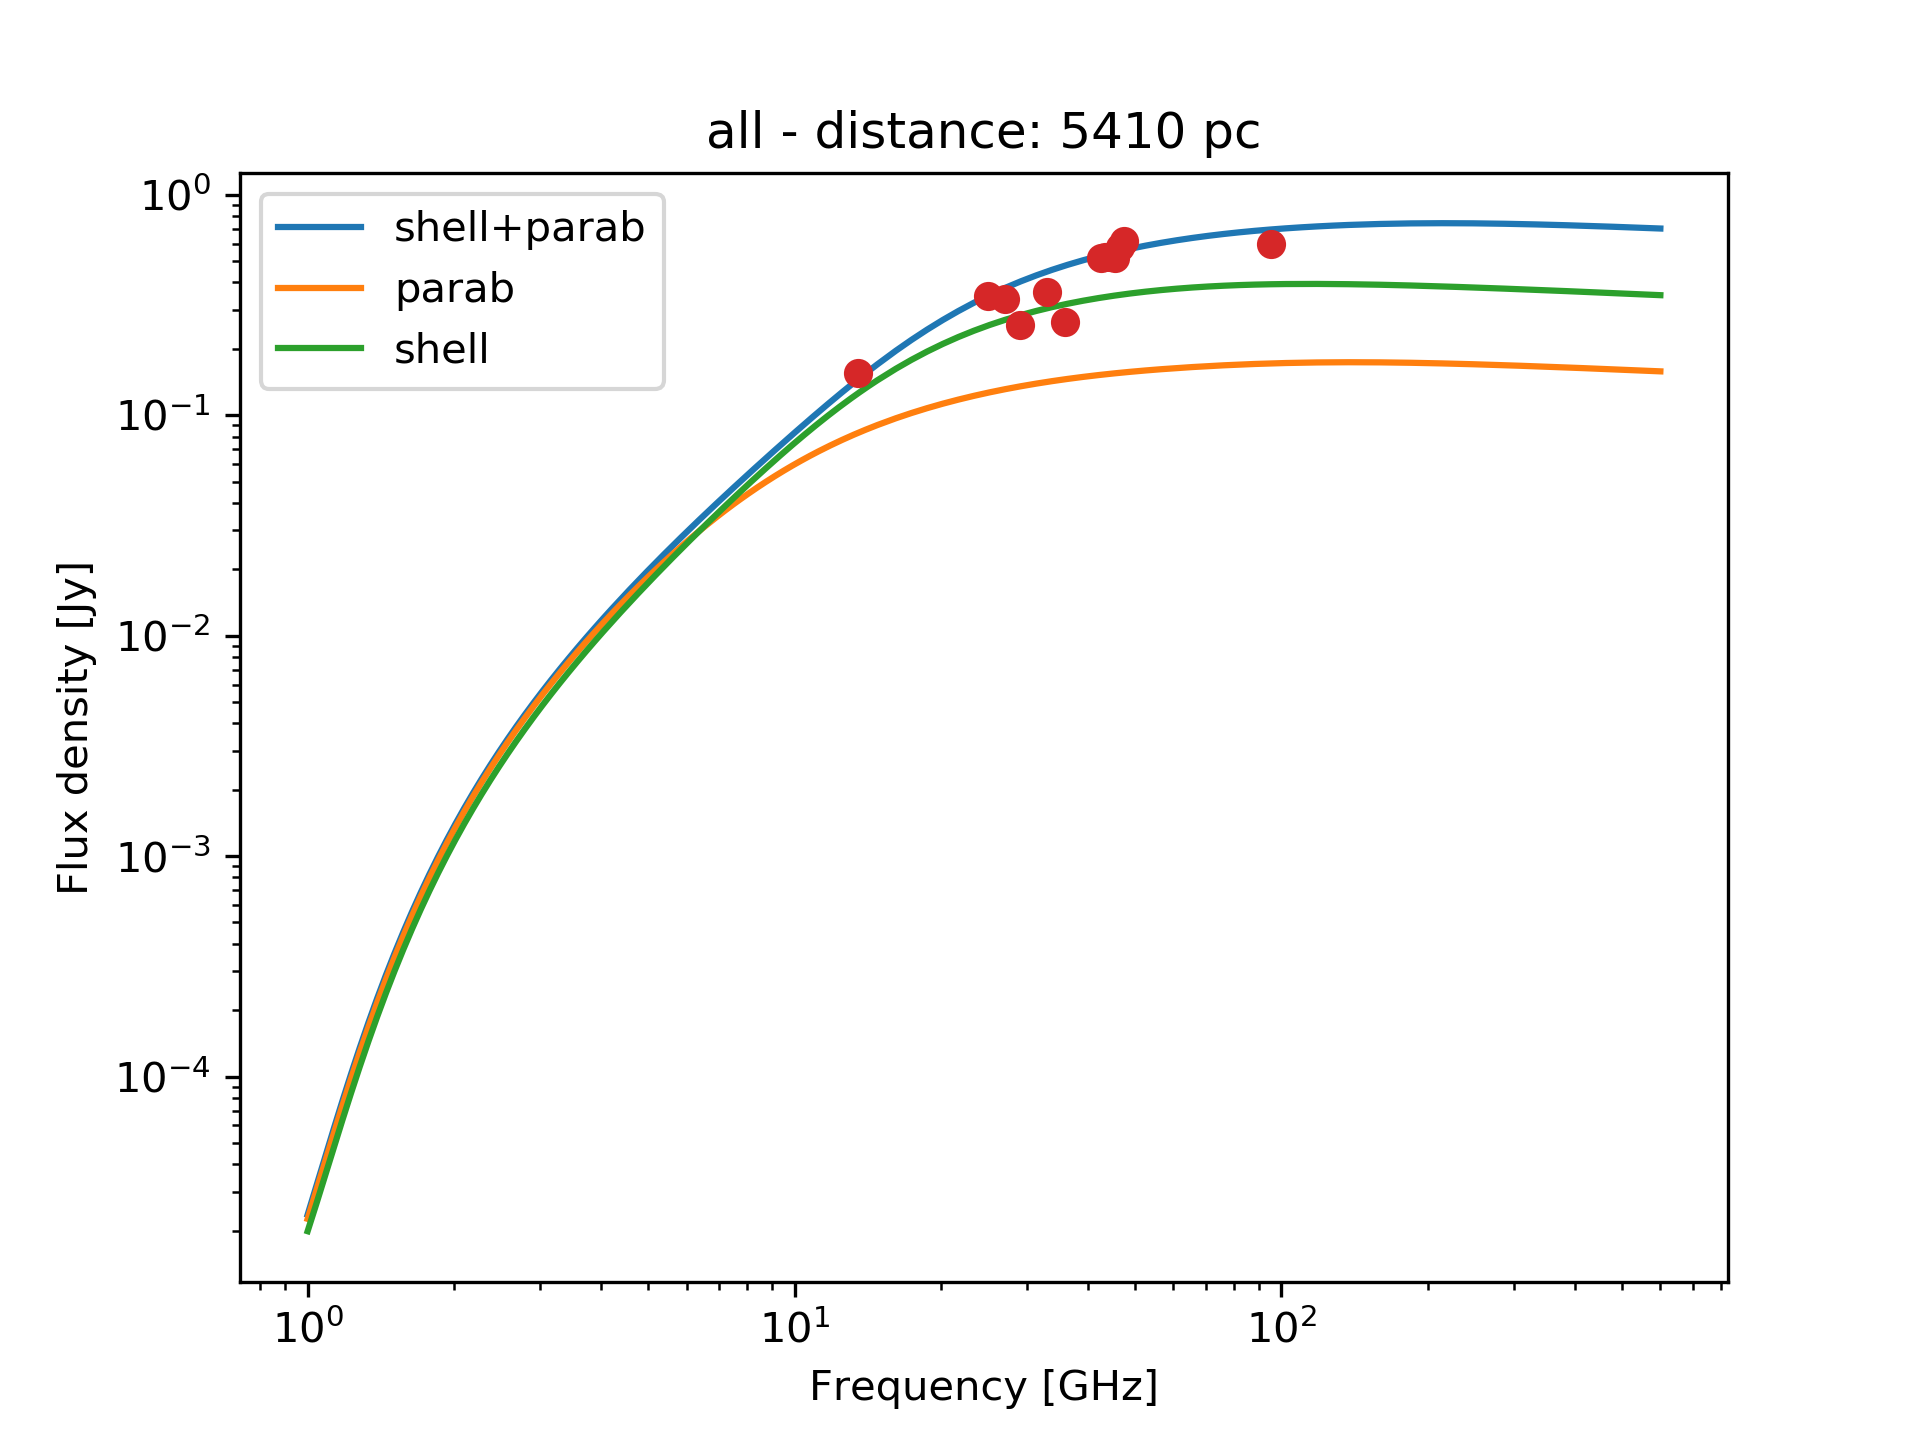
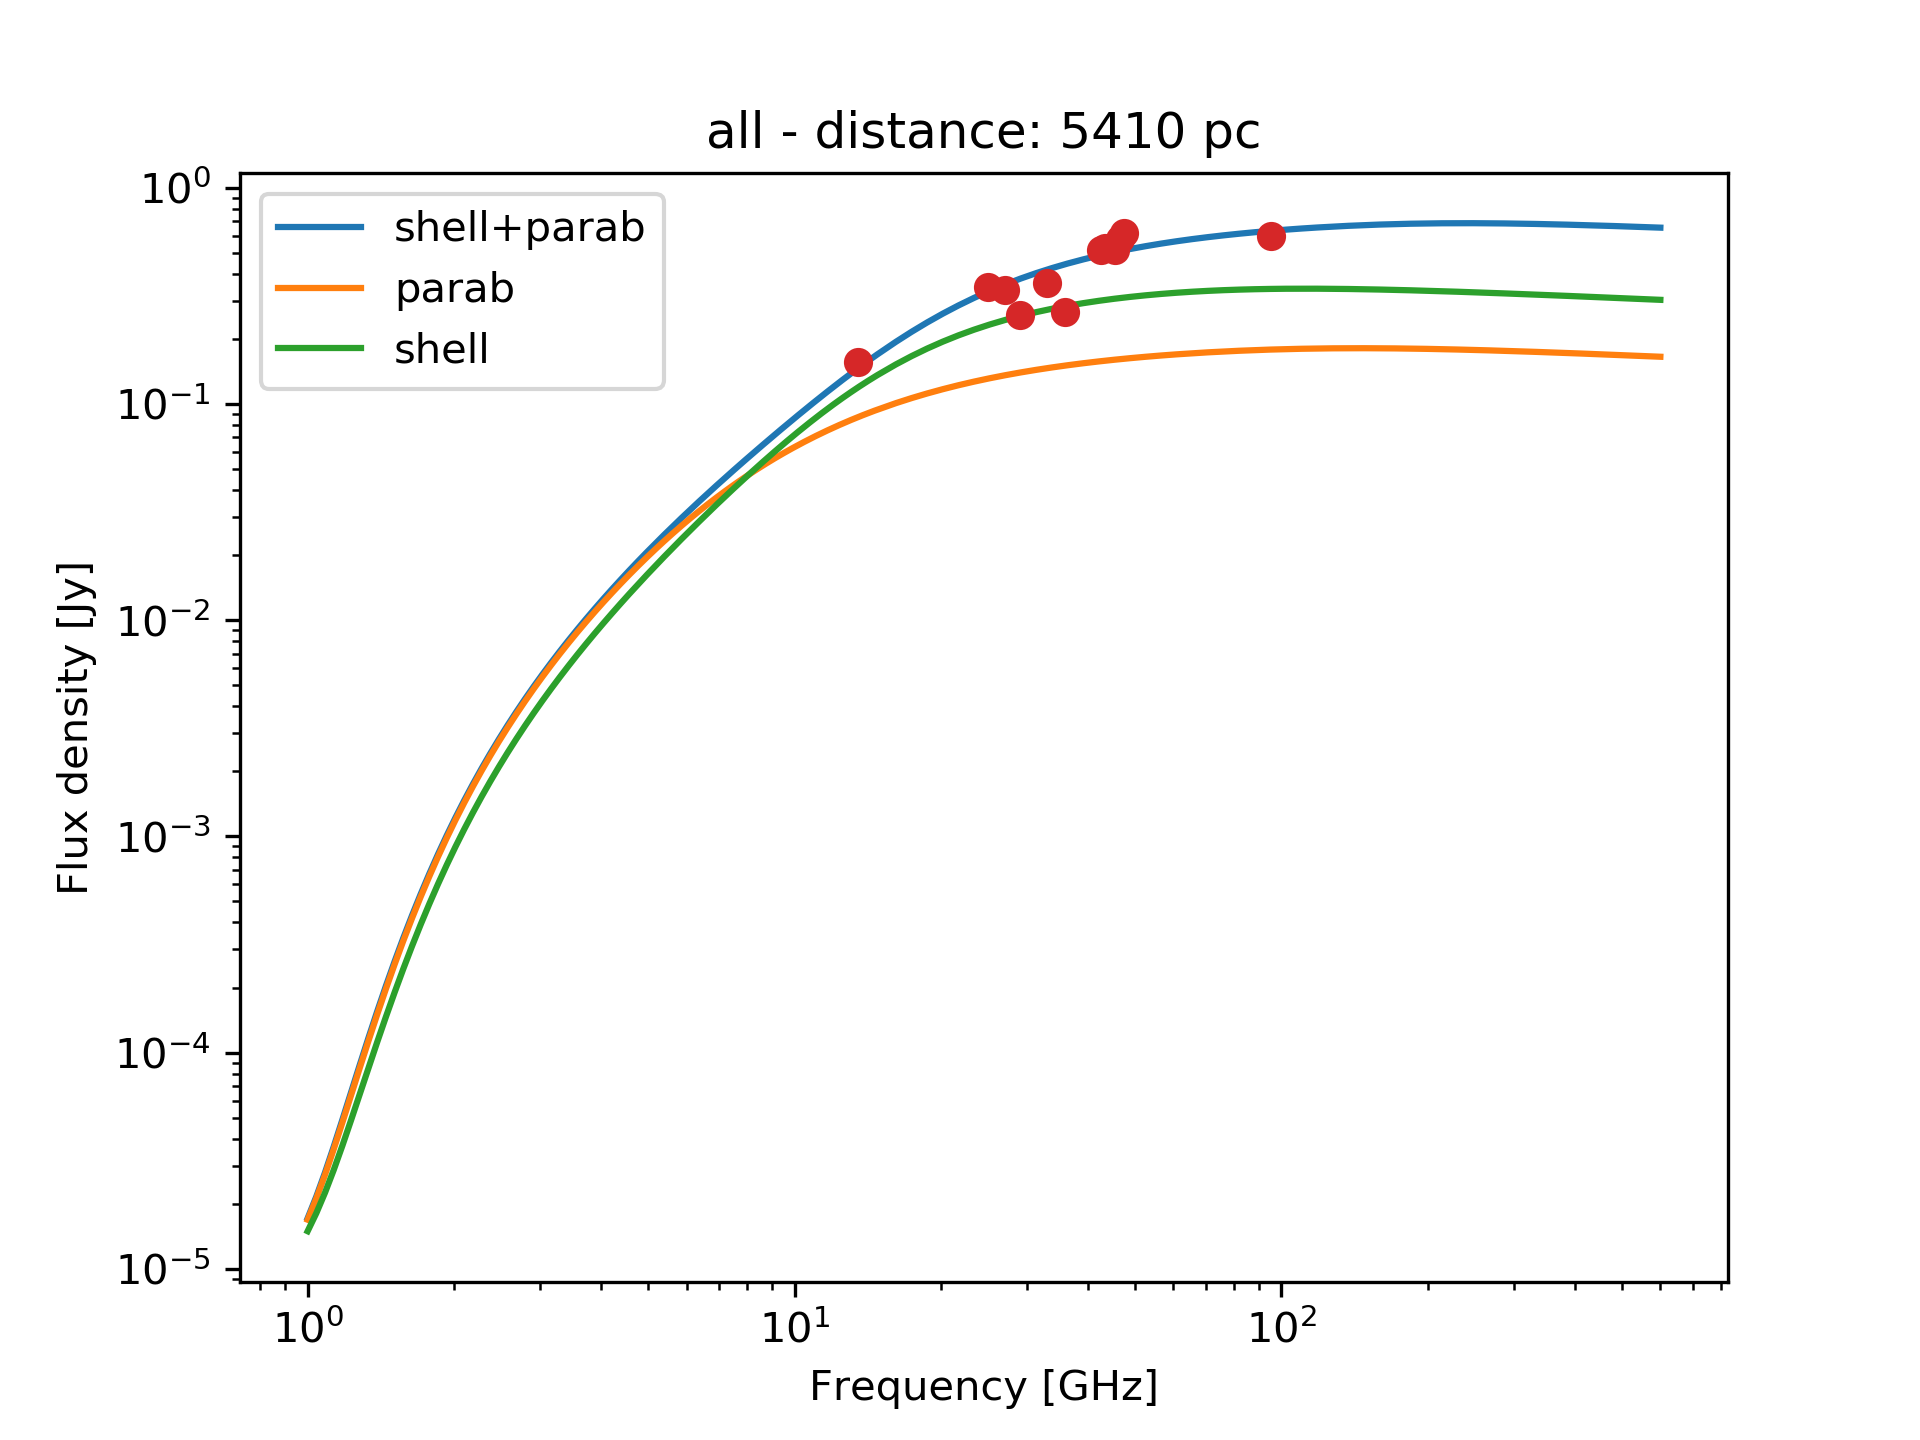
Shifting and rotating according to the data

diff --git a/exec_shellparab.py b/exec_shellparab.py
@@ -1,16 +1,48 @@
 from sf3dmodels.create_parabola import *
 from sf3dmodels.Utils import *
+from sf3dmodels.Model import Make_Datatab
+from astropy.io import fits
+from argparse import ArgumentParser
 import os
 
-os.system('mkdir Subgrids')
-folder='./Subgrids/'
-tag = folder+'shell0.dat'
+parser = ArgumentParser(prog='Paraboloids', description='Modelling paraboloid HII regions')
+parser.add_argument('-freq', '--freq', help='frequency of the fits file to be convolved')
+args = parser.parse_args()
+path_data = '/Users/andrespipecar42/w51/data/'
+dist = 5410. #pc
 
-pos_c = np.array([0, 0, 0])
-dir = np.array([0, 0, 1])
-pos_f = pos_c + dir #[300*AU, 0, 1000*AU]
-r_min = 1*AU
-r_max = 1500*AU
+#***************************************
+#Getting real centres to shift the model
+#***************************************
+if args.freq is None:
+    img_data = path_data + 'W51e2w_ALMAB3_cutout.fits'
+    cy, cx = 127, 41 #real paraboloid center in pxls
+    posang = 225.
+
+elif '45' in args.freq: 
+    img_data = path_data + 'W51e2w_VLA_Q_cutout.fits'
+    cy, cx = 62, 23 #real paraboloid center in pxls
+    posang = 225.
+
+elif '95' in args.freq: 
+    img_data = path_data + 'W51e2w_ALMAB3_cutout.fits'
+    cy, cx = 127, 41 #real paraboloid center in pxls
+    posang = 225.
+
+datah = fits.getheader(img_data)
+pixres = abs(datah['CDELT1']) * 3600 #pixel resolution of the data in arcsecs
+iy, ix = np.array([datah['NAXIS2'], datah['NAXIS1']]) / 2 #image centre in pxls
+dx = pixres * (cx - ix) * dist #x-shift in au
+dy = pixres * (cy - iy) * dist #y-shift in au
+print("Shell shift in au", dx, dy)
+
+#***************************************
+#MODELLING
+#***************************************
+tag = 'shell0.dat'
+
+z_min = 1*AU
+z_max = 1500*AU
 drBIGGRID = 80*AU
 
 #rho = lambda R: dens0
@@ -26,6 +58,9 @@ dens = [dens0, qn]
 
 a = 1.3*np.sqrt(300*AU) #10*AU
 b = 3.2*np.sqrt(150*AU) #10*AU
-make_paraboloid(pos_c, pos_f, r_min, drBIGGRID, a, b, dens, T0, width = 40*AU, r_max = r_max, name = tag)
-
+GRID, props = make_paraboloid(z_min, z_max, drBIGGRID, a, b, dens, T0, width = 40*AU)
+shift = Model.ChangeGeometry(GRID, center = np.array([0, dy, dx])*AU,
+                             rot_dict = { 'angles': [-np.pi/180*(posang+90 + 2)], 'axis': ['x'] })
+GRID.XYZ = shift.newXYZ
+Make_Datatab(props, GRID).submodel(tag = tag)
 

diff --git a/exec_paraboloid.py b/exec_paraboloid.py
@@ -1,16 +1,48 @@
 from sf3dmodels.create_parabola import *
 from sf3dmodels.Utils import *
+from sf3dmodels.Model import Make_Datatab
+from astropy.io import fits
+from argparse import ArgumentParser
 import os
 
-os.system('mkdir Subgrids')
-folder='./Subgrids/'
-tag = folder+'paraboloid0.dat'
+parser = ArgumentParser(prog='Paraboloids', description='Modelling paraboloid HII regions')
+parser.add_argument('-freq', '--freq', help='frequency of the fits file to be convolved')
+args = parser.parse_args()
+path_data = '/Users/andrespipecar42/w51/data/'
+dist = 5410. #pc
 
-pos_c = np.array([0, 0, 0])
-dir = np.array([0, 0, 1])
-pos_f = pos_c + dir #[300*AU, 0, 1000*AU]
-r_min = 1*AU
-r_max = 1800*AU
+#***************************************
+#Getting real centres to shift the model
+#***************************************
+if args.freq is None:
+    img_data = path_data + 'W51e2w_ALMAB3_cutout.fits'
+    cy, cx = 127, 41 #real paraboloid center in pxls
+    posang = 225.
+
+elif '45' in args.freq: 
+    img_data = path_data + 'W51e2w_VLA_Q_cutout.fits'
+    cy, cx = 62, 23 #real paraboloid center in pxls
+    posang = 225.
+
+elif '95' in args.freq: 
+    img_data = path_data + 'W51e2w_ALMAB3_cutout.fits'
+    cy, cx = 127, 41 #real paraboloid center in pxls
+    posang = 225.
+
+datah = fits.getheader(img_data)
+pixres = abs(datah['CDELT1']) * 3600 #pixel resolution of the data in arcsecs
+iy, ix = np.array([datah['NAXIS2'], datah['NAXIS1']]) / 2 #image centre in pxls
+dx = pixres * (cx - ix) * dist #x-shift in au
+dy = pixres * (cy - iy) * dist #y-shift in au
+print("Paraboloid shift in au", dx, dy)
+
+#***************************************
+#MODELLING
+#***************************************
+tag = 'paraboloid0.dat'
+
+z_min = 1*AU
+z_max = 1800*AU
 drBIGGRID = 80*AU
 
 #rho = lambda R: dens0
@@ -28,6 +60,9 @@ dens = [dens0, qn]
 
 a = 1.3*np.sqrt(300*AU) #10*AU
 b = 3.2*np.sqrt(150*AU) #10*AU
-make_paraboloid(pos_c, pos_f, r_min, drBIGGRID, a, b, dens, T0, r_max = r_max, name = tag)
-
+GRID, props  = make_paraboloid(z_min, z_max, drBIGGRID, a, b, dens, T0)
+shift = Model.ChangeGeometry(GRID, center = np.array([0, dy, dx])*AU,
+                             rot_dict = { 'angles': [-np.pi/180*(posang+90 + 2)], 'axis': ['x'] })
+GRID.XYZ = shift.newXYZ
+Make_Datatab(props, GRID).submodel(tag = tag)
 

diff --git a/analysis/parabola.py b/analysis/parabola.py
@@ -1,3 +1,4 @@
+from __future__ import print_function
 import os
 from astropy.io import fits
 from astropy import wcs
@@ -41,8 +42,15 @@ if not os.path.exists(path_data+'W51e2w_VLA_Q_cutout.fits'):
 else:
     img_45ghz = fits.getdata(path_data+'W51e2w_VLA_Q_cutout.fits')
 
-cy,cx = 127,41
+
+#******************
+#ANALYSIS 95 GHz
+#******************
+cy,cx = np.where(img_95ghz == img_95ghz.max()) #127,41
+cy += 2; cx += 1 #Small adjustments
 angle = (180+315) * u.deg
+print ('Image 95 GHz --> center cy,cx: ({}, {})'.format(cy,cx) 
+       + ', position angle:', (90 + angle.value%360)*u.deg)
 
 xx = np.linspace(0,50,1000)
 yy = xx**2 / 28
@@ -67,15 +75,22 @@ pl.plot(prj_dist, data_on_path)
 #pl.plot(prj_dist, data_on_pathb, color = 'black')
 pl.plot(prj_dist, data_on_path2)
 core = data_on_path[:10].mean()
+"""
 profile = (core*(prj_dist/prj_dist[250])**-0.1 * (prj_dist >= prj_dist[250])/10.
            + core * (1-(prj_dist/prj_dist[580])**2) * (prj_dist<=prj_dist[580])
            )
+"""
 profile = core * (1-(prj_dist/prj_dist[580])**2) * (prj_dist<=prj_dist[580])
 
 pl.plot(prj_dist, profile)
 
-
-cy,cx = 62,23
+#******************
+#ANALYSIS 45 GHz
+#******************
+cy,cx = np.where(img_45ghz == np.max(img_45ghz))
+cy += 3; cx += 2 #Small adjustments
+print ('Image 45 GHz --> center cy,cx: ({}, {})'.format(cy,cx) 
+       + ', position angle:', (90 + angle.value%360)*u.deg)
 
 xx = np.linspace(0,25,1000)
 yy = xx**2 / 17
@@ -98,9 +113,12 @@ pl.clf()
 pl.plot(prj_dist, data_on_path)
 pl.plot(prj_dist, data_on_path2)
 core = data_on_path[:10].mean()
+
+"""
 profile = (core*(prj_dist/prj_dist[250])**-0.1 * (prj_dist >= prj_dist[250])/10.
            + core * (1-(prj_dist/prj_dist[580])**2) * (prj_dist<=prj_dist[580])
            )
+"""
 profile = core * (1-(prj_dist/prj_dist[580])**2) * (prj_dist<=prj_dist[580])
 
 pl.plot(prj_dist, profile)

diff --git a/generate_master.py b/generate_master.py
@@ -9,9 +9,9 @@ import sf3dmodels.BuildGlobalGrid as BGG
 from sf3dmodels import Model, Plot_model as Pm, Utils as U
 import numpy as np
 
-sizex = 1700 * U.AU
+sizex = 2000 * U.AU
 sizey = sizez = sizex
-Nx = 60 
+Nx = 80 
 Ny = Nz = Nx
 GRID = Model.grid([sizex, sizey, sizez], [Nx, Ny, Nz], radmc3d = True)
 global_prop = BGG.overlap(GRID, all = False, radmc3d = True,

diff --git a/convolve_fits.py b/convolve_fits.py
@@ -30,7 +30,9 @@ pixres = abs(datah['CDELT1'])
 a_pix = datah['BMAJ'] / pixres
 b_pix = datah['BMIN'] / pixres
 posang = datah['BPA']
-print (a_pix,b_pix)
+
+print ('Pixel resolution', pixres)
+print ('Image centers in pxls x,y:', datah['NAXIS1']/2, datah['NAXIS2']/2)
 
 x_stddev = a_pix / 2.35482 # = x_fwhm / 2.35482
 y_stddev = b_pix / 2.35482 # = y_fwhm / 2.35482

diff --git a/plot_fits_image.py b/plot_fits_image.py
@@ -11,7 +11,7 @@ args = parser.parse_args()
 if args.file: file = args.file
 else: file = 'image.fits'
     
-dist = 5410.
+dist = 5410. #pc
 im = image.readImage()
 
 #image.plotImage(im, au=True, log=True, maxlog=10, saturate=1e-5, cmap=plt.cm.gist_heat)
